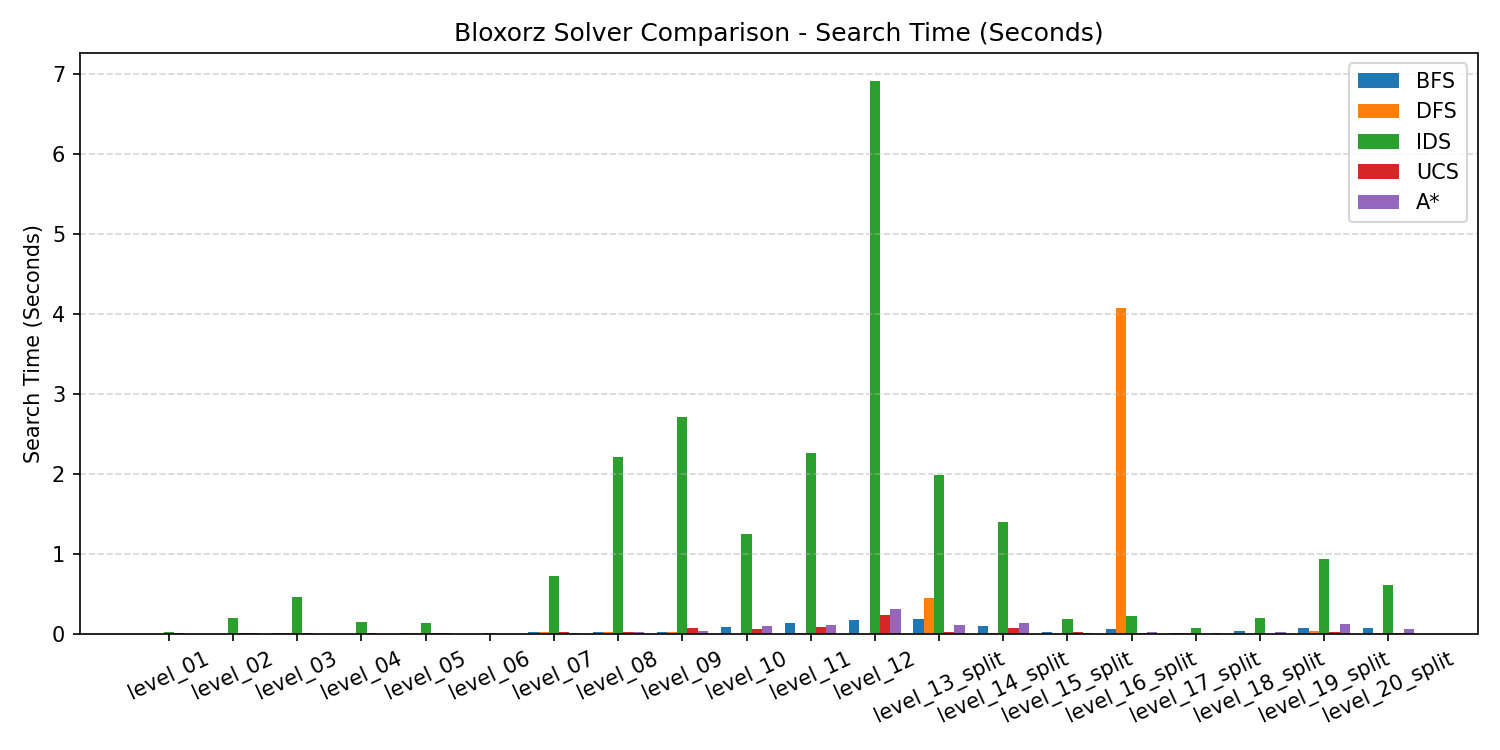
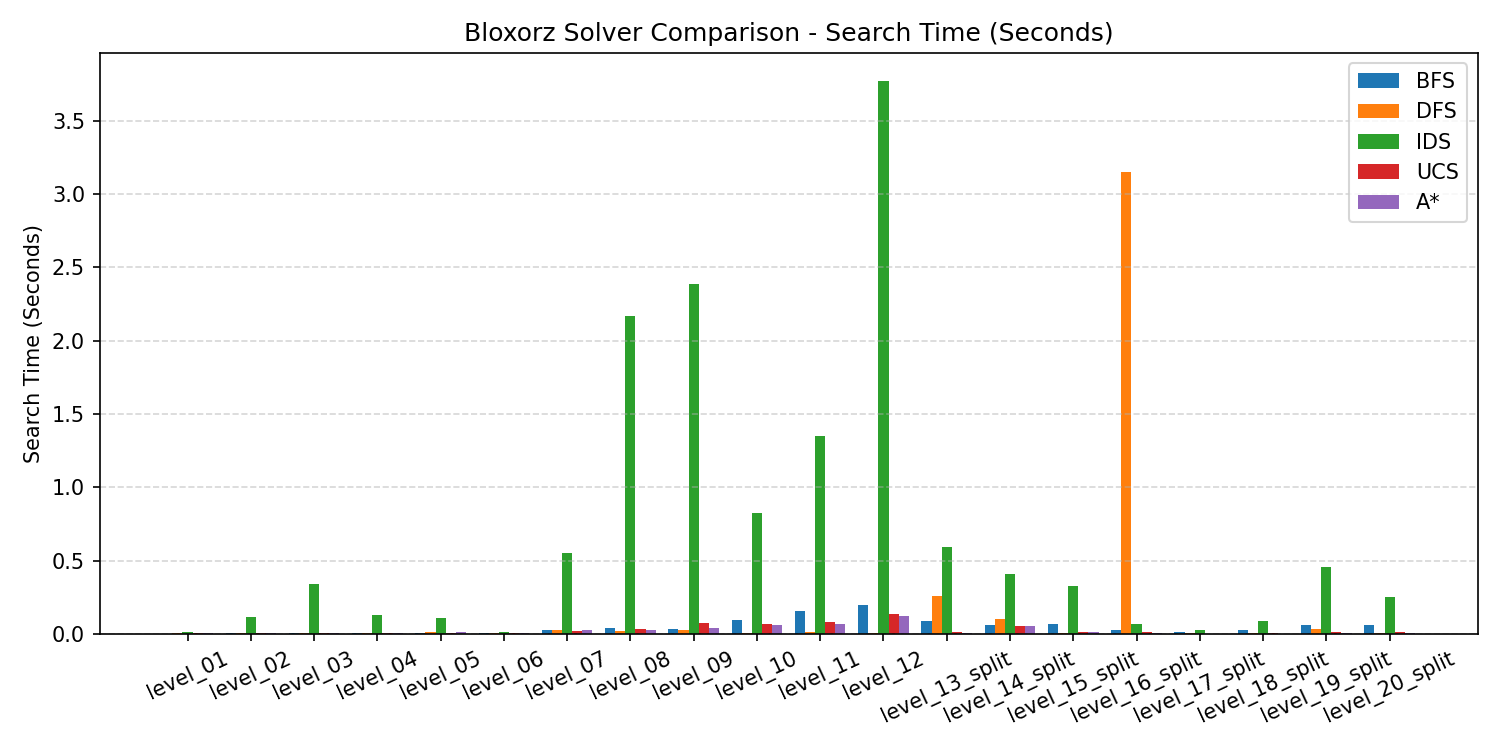
Change: Final Heuristic ngày 29/10/2026

diff --git a/Source/solvers/search_utils.py b/Source/solvers/search_utils.py
@@ -16,14 +16,41 @@ def get_step_cost(board, next_state):
     return state_cost + block_cost
 
 class Heuristic:
-    def __init__(self, board):
+    def __init__(self, board, check_time=lambda: None):
         self.board = board
+        predecessors = {}
+        for source, switch in board.switches.items():
+            if switch["type"] == "split":
+                for target in switch["teleport_to"]:
+                    predecessors.setdefault(tuple(target), []).append(source)
+        goal = board.goal_pos
+        self.distance = {goal: 0}
+        queue = [(0, goal)]
+        while queue:
+            check_time()
+            distance, cell = heapq.heappop(queue)
+            if distance != self.distance[cell]:
+                continue
+            r, c = cell
+            edges = [((r - 1, c), 5), ((r + 1, c), 5),
+                     ((r, c - 1), 5), ((r, c + 1), 5)]
+            edges.extend((source, 0) for source in predecessors.get(cell, []))
+            for previous, weight in edges:
+                pr, pc = previous
+                if 0 <= pr < board.rows and 0 <= pc < board.cols:
+                    candidate = distance + weight
+                    if candidate < self.distance.get(previous, float("inf")):
+                        self.distance[previous] = candidate
+                        heapq.heappush(queue, (candidate, previous))
+
+        
 
     def __call__(self, state: State) -> int:
-        goal_r, goal_c = self.board.goal_pos
-        max_dist = 0
-        for r, c in state.get_occupied_cells():
-            dist = abs(r - goal_r) + abs(c - goal_c)
-            if dist > max_dist:
-                max_dist = dist
-        return max_dist * 5 / 2.0
+        # goal_r, goal_c = self.board.goal_pos
+        # max_dist = 0
+        # for r, c in state.get_occupied_cells():
+        #     dist = abs(r - goal_r) + abs(c - goal_c)
+        #     if dist > max_dist:
+        #         max_dist = dist
+        # #return max_dist * 5 / 2.0
+        return min(self.distance[cell] for cell in state.get_occupied_cells())
